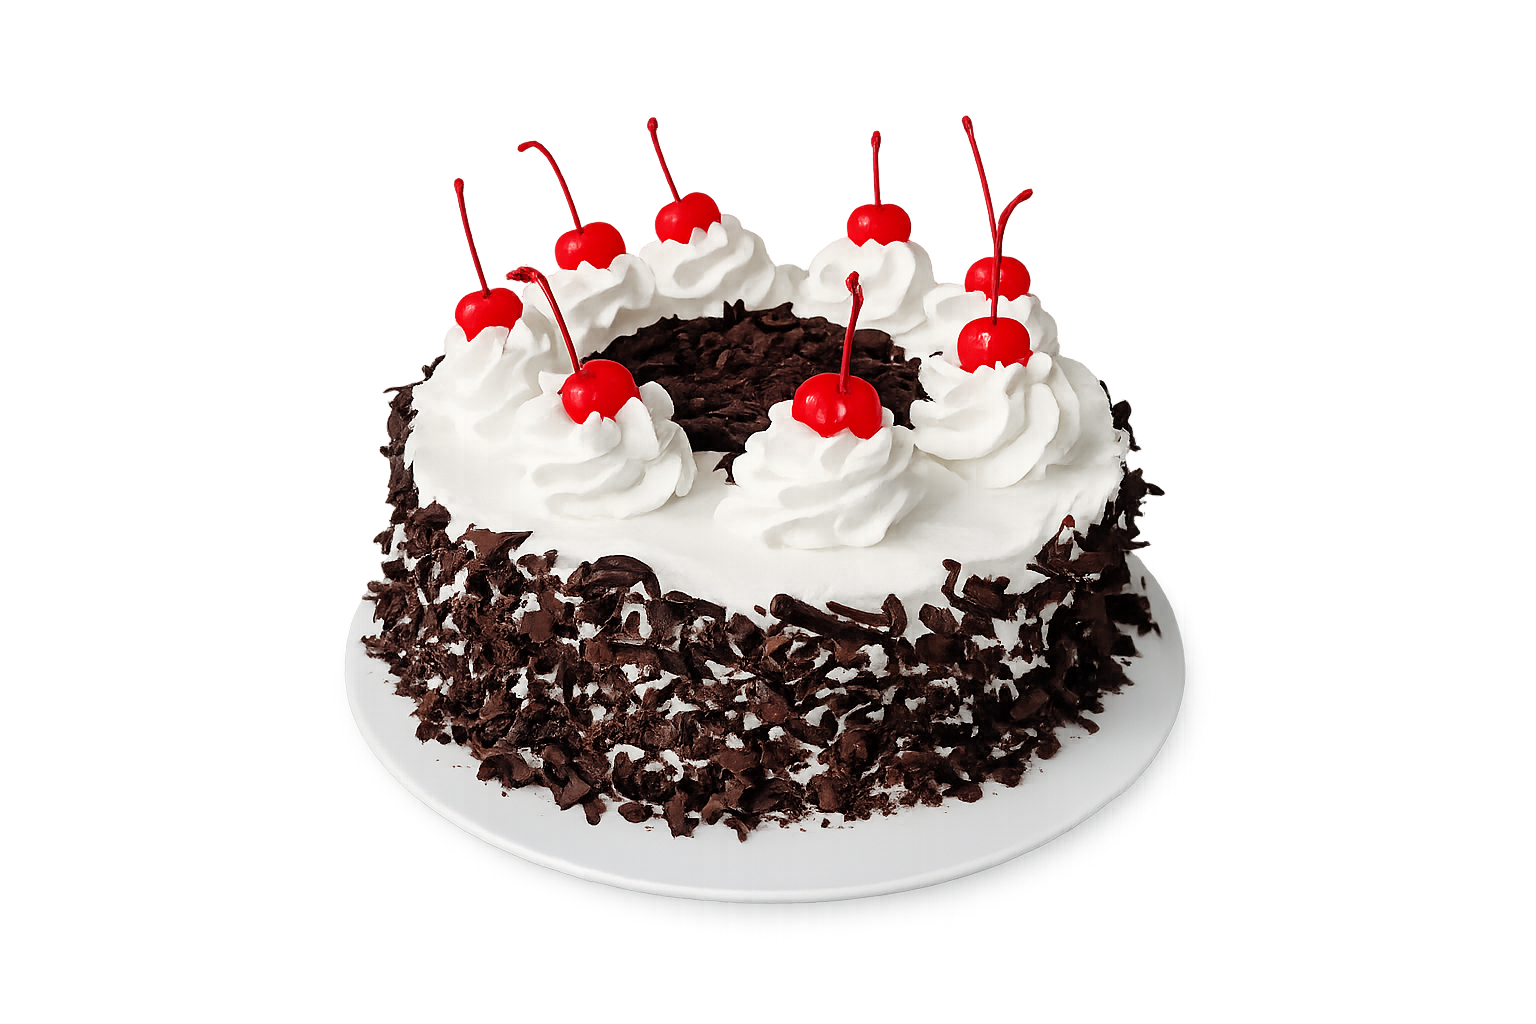
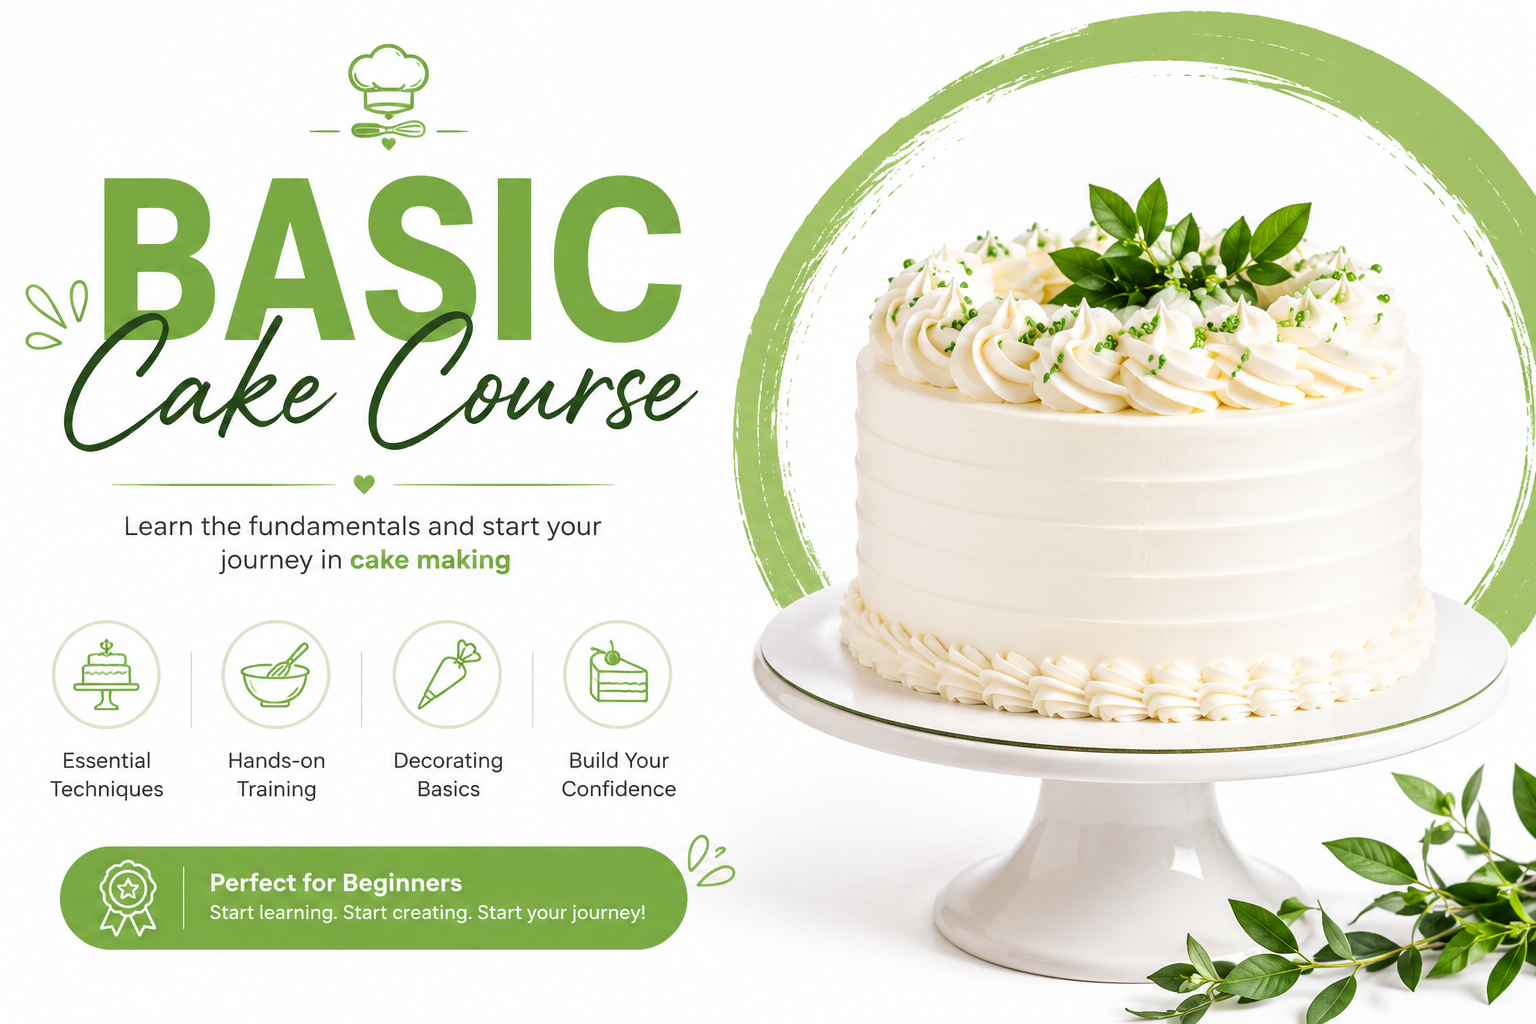
Update website

diff --git a/src/components/Courses.jsx b/src/components/Courses.jsx
@@ -1,77 +1,93 @@
-import CourseCard from "./CourseCard";
+import { Link } from "react-router-dom";
 
-const courses = [
+export default function Courses() {
+  return (
+    <section id="courses" className="bg-gray-50 py-24">
 
-{
-image:"/courses/basic.jpg",
-title:"Basic Cake Course",
-description:"Perfect for beginners who want to master baking."
-},
+      <div className="max-w-7xl mx-auto px-6">
 
-{
-image:"/courses/advanced.jpg",
-title:"Advanced Cake Course",
-description:"Professional decorating and advanced techniques."
-},
+        <div className="text-center mb-16">
 
-{
-image:"/courses/sweets.jpg",
-title:"Traditional Sweets",
-description:"Traditional and modern sweet making."
-},
+          <h2 className="text-5xl font-bold text-gray-900">
+            Featured Courses
+          </h2>
 
-{
-image:"/courses/bakery.jpg",
-title:"Bakery Essentials",
-description:"Bread, buns, pastries and bakery recipes."
-}
+          <p className="text-gray-600 mt-4 text-lg">
+            Start learning with our professional online courses.
+          </p>
 
-];
+        </div>
 
-export default function Courses(){
+        <div className="grid md:grid-cols-2 lg:grid-cols-4 gap-8">
 
-return(
+          {/* Basic Cake Course */}
 
-<section id="courses" className="section bg-graybg">
+          <div className="bg-white rounded-3xl shadow-lg overflow-hidden hover:-translate-y-2 transition">
 
-<div className="container">
+            <img
+              src="/images/basic-cake.png"
+              alt="Basic Cake Course"
+              className="w-full h-56 object-cover"
+            />
 
-<h2 className="text-5xl font-bold text-center">
+            <div className="p-6">
 
-Featured Courses
+              <span className="inline-block bg-green-100 text-green-700 px-3 py-1 rounded-full text-sm font-semibold">
+                Available Now
+              </span>
 
-</h2>
+              <h3 className="text-2xl font-bold mt-4">
+                Basic Cake Course
+              </h3>
 
-<p className="text-center text-gray-600 mt-5">
+              <p className="text-gray-600 mt-3">
+                8 Days of professional cake lessons for beginners.
+              </p>
 
-Choose your learning path.
+              <Link
+                to="/courses/basic-cake"
+                className="block mt-6 text-center bg-green-600 text-white py-3 rounded-full hover:bg-green-700 transition"
+              >
+                View Course
+              </Link>
 
-</p>
+            </div>
 
-<div className="grid lg:grid-cols-4 md:grid-cols-2 gap-8 mt-16">
+          </div>
 
-{
+          {/* Coming Soon Cards */}
 
-courses.map((course,index)=>
+          {[
+            "Advanced Cake Course",
+            "Bakery Course",
+            "Traditional Sweets",
+          ].map((course) => (
 
-<CourseCard
+            <div
+              key={course}
+              className="bg-white rounded-3xl shadow-lg p-8 flex flex-col justify-center items-center text-center hover:-translate-y-2 transition"
+            >
 
-key={index}
+              <div className="w-28 h-28 rounded-full bg-green-100 flex items-center justify-center text-6xl">
+                🚧
+              </div>
 
-{...course}
+              <h3 className="text-2xl font-bold mt-6">
+                {course}
+              </h3>
 
-/>
+              <p className="text-gray-500 mt-3">
+                Coming Soon
+              </p>
 
-)
+            </div>
 
-}
+          ))}
 
-</div>
+        </div>
 
-</div>
+      </div>
 
-</section>
-
-)
-
+    </section>
+  );
 }